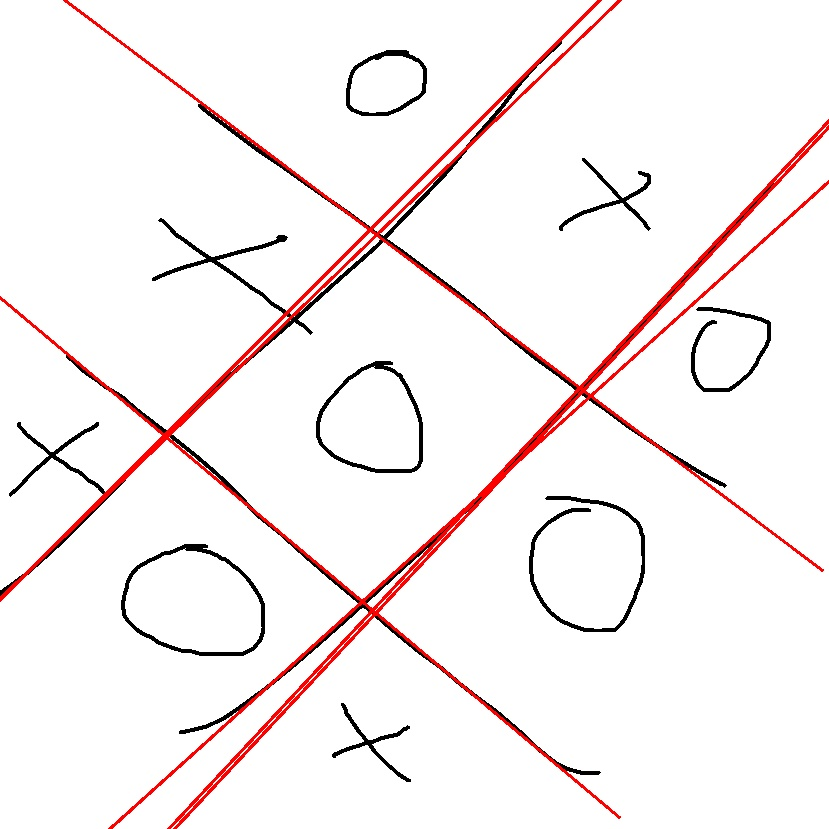
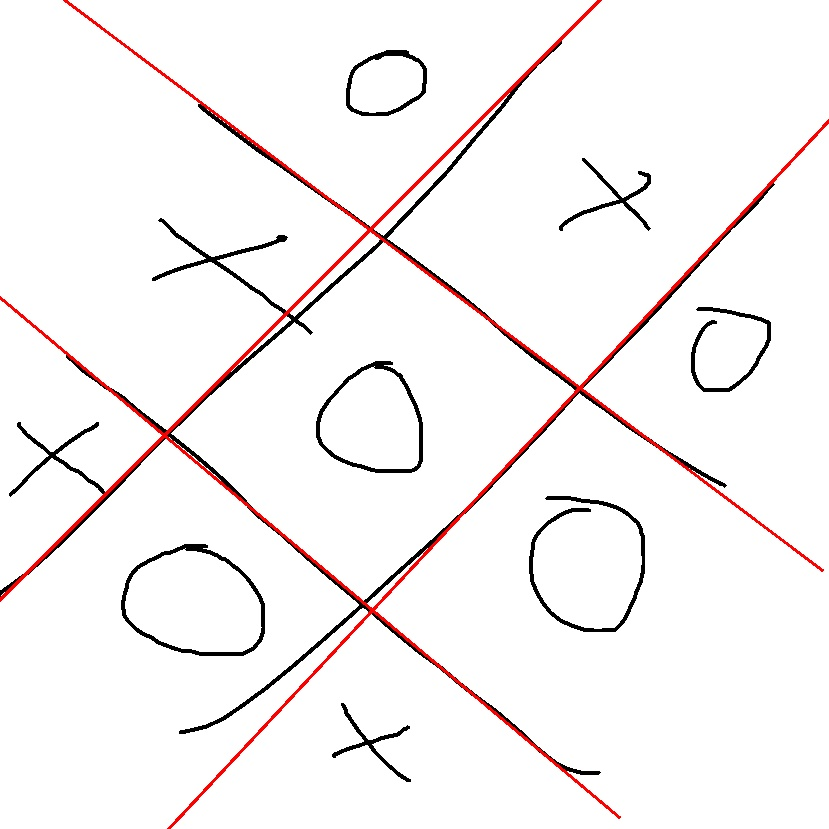
grid + unifcation lines + cercle recognize

diff --git a/src/main.py b/src/main.py
@@ -5,6 +5,7 @@ import os
 import cv2
 import random
 import functions as f
+import tictactoe as ttt
 
 # Taille des images
 #IMG_SIZE = 829
@@ -36,16 +37,9 @@ def canny(img):
 
 
 def hough_transform(img, edges):
-    """
-    It takes an image and its edges, and applies the Hough transform to detect lines in the image
-
-    :param img: The image where we want to draw the lines
-    :param edges: Output of the edge detector. It should be a grayscale image (although in fact it is a
-    binary one) and it should have the same size as image
-    :return: the lines detected in the image.
-    """
-
-    lignes = cv2.HoughLines(edges, 1, np.pi/180, int(np.trunc(img.shape[0]/3.5)))
+    lignes_detected = []
+    lignes = cv2.HoughLines(edges, 1, np.pi/180,
+                            int(np.trunc(img.shape[0]/3.5)))    # diminuer le dénominateur diminue le seuil
 
     if lignes is None:
         print("No lines detected in the image")
@@ -55,47 +49,91 @@ def hough_transform(img, edges):
         rho, theta = line[0]
         a = np.cos(theta)
         b = np.sin(theta)
-        x0 = a*rho
-        y0 = b*rho
-        x1 = int(x0 + 1000*(-b))
-        y1 = int(y0 + 1000*(a))
-        x2 = int(x0 - 1000*(-b))
-        y2 = int(y0 - 1000*(a))
 
-        cv2.line(img, (x1, y1), (x2, y2), (0, 0, 255), 2)
+        isSimilar = False
+        for r, t in lignes_detected:
+            if abs(r - rho) < 10 and abs(t - theta) < 0.1:
+                isSimilar = True
+                break
+        if not isSimilar:
+            lignes_detected.append((rho, theta))
 
+            x0 = a*rho
+            y0 = b*rho
+            x1 = int(x0 + 1000*(-b))
+            y1 = int(y0 + 1000*(a))
+            x2 = int(x0 - 1000*(-b))
+            y2 = int(y0 - 1000*(a))
+
+            cv2.line(img, (x1, y1), (x2, y2), (0, 0, 255), 2)
+    #print("Number of lines detected: ", len(lignes_detected))
     cv2.imwrite('houghlines3.jpg', img)
     cv2.imread('houghlines3.jpg')
     cv2.imshow('houghlines3.jpg', img)
     cv2.waitKey(0)
+    return lignes_detected
 
-# Reconnaissance de symboles
+# Création de la grille avec les lignes détectées
+def create_grid(img, lignes_detected):
+    morpion = ttt.tictactoe(lignes_detected/2, lignes_detected/2)
+    morpion.show_grid(morpion.grid)
+    return morpion.grid
 
-
+# Reconnaissance de symboles, soit X soit O dans une case de la grille
 def recognize_symbol(img):
-    pass
+    dim = img.size
+    cv2.imshow('base', img)
+    imgBase = img
+    img = cv2.cvtColor(img, cv2.COLOR_BGR2GRAY)
+    img = cv2.medianBlur(img, 5)
 
-# Reconnaissance fin de partie
+    cercles = cv2.HoughCircles(
+        img, cv2.HOUGH_GRADIENT, 1, 20, param1=50, param2=30, minRadius=dim/9-, maxRadius=0)
 
+    cercles = np.uint16(np.around(cercles))
+    for i in cercles[0, :]:
+        cv2.circle(imgBase, (i[0], i[1]), i[2], (0, 255, 0), 2)     # périmètre du cercle
+        cv2.circle(imgBase, (i[0], i[1]), 2, (0, 0, 255), 3)        # centre du cercle
 
-def recognize_end(img):
-    pass
-
-# Main
+    cv2.imshow('cercles detectes', imgBase)
+    cv2.waitKey(0)
+    cv2.destroyAllWindows()
 
 
 def main():
+    # chemin du dossier contenant les images
+    path = 'src/img/'
 
-    #for image in os.listdir('./src/img'):
-    #    print(image.n)
-        
-    test_img = f.load_image('./src/img/tictactoe2.png')
-    image = load_image('./src/img/image.png')
-    
+    # liste des fichiers dans le dossier
+    files = os.listdir(path)
+
+    # affichage du menu
+    print("Sélectionnez une image :")
+    for i, file in enumerate(files):
+        print(f"{i+1}. {file}")
+
+    # demande de saisie de l'utilisateur
+    while True:
+        try:
+            choix = int(input("Votre choix : "))
+            if choix < 1 or choix > len(files):
+                raise ValueError
+            break
+        except ValueError:
+            print("Veuillez entrer un choix valide.")
+
+    # sélection de l'image choisie
+    image_path = path + files[choix-1]
+
+    print(f"Vous avez sélectionné l'image : {image_path}")
+
+    image = load_image(image_path)
+
     edges = canny(image)
-    #show_image(edges)
-    hough_transform(image, edges)
-
+    # show_image(edges)
+    #hough_transform(image, edges)
+    recognize_symbol(image)
+    #print(hough_transform(image, edges))
 
 
 main()

diff --git a/src/tictactoe.py b/src/tictactoe.py
@@ -6,8 +6,18 @@ import numpy as np
 
 
 class tictactoe:
-    def __init__(self):
-        pass
+
+    grid = None
+
+    def __init__(self, nb_lines, nb_columns):
+        """
+        The constructor of the class tictactoe
+
+        :param nb_lines: number of lines in the grid
+        :param nb_columns: number of columns in the grid
+        """
+        self.grid = self.create_grid(nb_lines, nb_columns)
+
 
     def create_grid(self, nb_lines, nb_columns):
         """
@@ -113,19 +123,12 @@ class tictactoe:
         else:
             return 1
 
-    def draw_symbol(self, grid, line, column, symbol):
-        """
-        It takes a grid, a line, a column and a symbol as parameters and returns the grid with the
-        symbol in the line and column
-
-        :param grid: the grid of the game
-        :param line: the line where the symbol will be drawn
-        :param column: the column where the symbol will be drawn
-        :param symbol: 1 or 2
-        :return: The grid with the symbol in the position specified by the player.
-        """
+    """ def draw_symbol(self, grid, line, column, symbol):
+    
         if symbol == 1:
             grid[line][column] = "X"
         elif symbol == 2:
             grid[line][column] = "O"
-        return grid
+        return grid """
+    
+    #draw on the image
